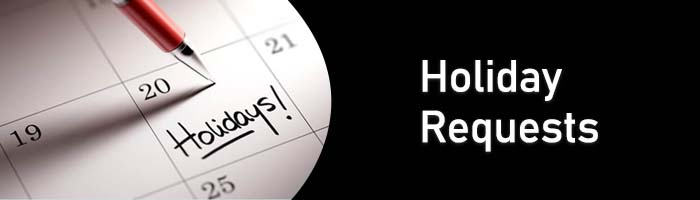
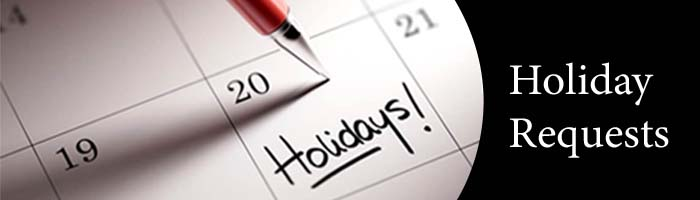
update email and add pictures

diff --git a/clientApp/templates/home.html b/clientApp/templates/home.html
@@ -23,13 +23,13 @@
     <h1>{{user.client}}</h1>
     <hr>
     <br>
-    <h2>Operators</h2>
+    <h2>Yours Operators</h2>
     <img src="{% static 'clientApp/client-operator-banner.jpg' %}" style="width: 100%; height:200px;">
     <div class="row">
         <div class="col">
             <br>
             <a class="btn btn-primary" style="margin-bottom: 10px;"
-                href="{% url 'clientApp:client_operator_list' %}">View Operators</a>
+                href="{% url 'clientApp:client_operator_list' %}">View your operators</a>
         </div>
     </div>
     <hr>
@@ -40,16 +40,15 @@
     <div class="row">
         <div class="col">
             <br>
-            <a class="btn btn-primary" style="margin-bottom: 10px;" href="{% url 'clientApp:client_feedback' %}">Give
-                Feedback</a>
+            <a class="btn btn-primary" style="margin-bottom: 10px;" href="{% url 'clientApp:client_feedback' %}">Giving a feedback</a>
             &nbsp;
             <a class="btn btn-primary" style="margin-bottom: 10px;"
-                href="{% url 'clientApp:client_feedback_list' %}">View Feedbacks</a>
+                href="{% url 'clientApp:client_feedback_list' %}">Viewing a feedback</a>
         </div>
     </div>
     <hr>
 
-    <h2>Holiday Requests</h2>
+    <h2>Holiday requests</h2>
     <img src="{% static 'clientApp/holidays-request.png' %}" style="width: 100%; height:200px;">
     <div class="row">
         <div class="col">
@@ -79,7 +78,6 @@
     </div>
     <hr>
 
-    <h2>Send Message to Urban Communications</h2>
     <div>
         <form method="post">
             {% csrf_token %}
@@ -87,9 +85,11 @@
                 {{clientChatAdmin|crispy}}
             </li>
             <br>
-            <button type="submit" class="btn btn-dark ">
+            <h2>Send a message to Urban Communications &nbsp;
+            <button type="submit" class="btn btn-dark text-center ">
                 Send
             </button>
+        </h2>
         </form>
     </div>
     <hr>
@@ -101,7 +101,7 @@
     </div>
     <hr>
 
-    <h2>Send Message to Operator</h2>
+    <h2>Send message to your operator</h2>
     <div>
         <form method="post">
             {% csrf_token %}
@@ -224,14 +224,14 @@
         <div class="col">
             <br>
             <a class="btn btn-primary" style="margin-bottom: 10px;"
-                href="{% url 'clientApp:admin_feedback_list' %}">Client Feedback<span
+                href="{% url 'clientApp:admin_feedback_list' %}">Client feedback <span
                     class="badge badge-light">{{feedbackCount}}</span></a>
             &nbsp;
             <a class="btn btn-primary" style="margin-bottom: 10px;"
-                href="{% url 'clientApp:admin_employee_feedback' %}">Give Feedback</a>
+                href="{% url 'clientApp:admin_employee_feedback' %}">Giving feedback to your employee</a>
             &nbsp;
             <a class="btn btn-primary" style="margin-bottom: 10px;"
-                href="{% url 'clientApp:admin_employee_feedback_list' %}">Feedback History</a>
+                href="{% url 'clientApp:admin_employee_feedback_list' %}">Viewing the feedback of your employee</a>
 
         </div>
     </div>

diff --git a/secondProject/views.py b/secondProject/views.py
@@ -66,26 +66,30 @@ class ClientRegistration(TemplateView):
                 'email']
             text_content = "Your account has been registered successfully"
             html_content = f"""<div>
-                <em> This is an automated e-mail - please do not reply to this address </em> <br>
-                <h2> PRIVATE & CONFIDENTIAL </h2>
-                <p> Dear {form_client.cleaned_data['client_name']}, <br> 
-                Welcome and congrats on becoming a member of the Urban Communications Family. <br>
-                We are glad to inform you that your account has been registered successfully.  <br> <br>
+                <em>This is an automated e-mail - please do not reply to this address</em><br>
+                <h2>PRIVATE & CONFIDENTIAL</h2>
+                <p>Dear {form_client.cleaned_data['client_name']}, </p>
+                <p>Welcome and congrats on becoming a member of the Urban Communications Family.</p>
+                <p>We are glad to inform you that your account has been registered successfully.</p><br>
 
-                <b> Your account credentials are as follow: </b> <br>
-                
-                <b>Username:</b> {form_user.cleaned_data['username']} <br> 
-                <b>Password:</b> {form_user.cleaned_data['password1']} <br> <br> 
-                You can now login by visiting our website at: <a href="http://www.app.urban-communications.co.uk/">http://www.app.urban-communications.co.uk</a> </p> <br>
-                <b> Things you can do by login: <br>
+                <p><b> Your account credentials are as follow:</b></p>
+                <p><b>Username:</b> {form_user.cleaned_data['username']} <br> 
+                <b>Password:</b> {form_user.cleaned_data['password1']}</p><br>
+
+                <p>You can now login by visiting our website at: <a href="http://www.app.urban-communications.co.uk/">http://www.app.urban-communications.co.uk</a> </p> <br>
+                <b>Things you can do by login:<br>
                 <ul>
                     <li>You can view the list of operators associated with you</li>
-                    <li>You can approce or decline any holiday request from your operator</li>
+                    <li>You can approve or decline any holiday request from your operator</li>
                     <li>You can give feedback to your operator and view it</li>
                     <li>You can send a message to your operator and Urban Communications</li>
                     <li>You can view your invoices from Urban Communications</li>
                     <li>You can also view your profile information</li>
-                </ul>
+                </ul> <br>
+                <p>Kind Regards,</p>
+                <p>Urban Communications</p>
+                <a href="http://www.app.urban-communications.co.uk/">admin@urban-communications.co.uk</a>
+
                 </div>"""
             msg = EmailMultiAlternatives(
                 subject, text_content, from_email, [to])
@@ -145,24 +149,30 @@ class OperatorRegistration(TemplateView):
                     'email']
                 text_content = "Your account has been registered successfully"
                 html_content = f"""<div>
-                <em> This is an automated e-mail - please do not reply to this address </em> <br>
-                <h2> PRIVATE & CONFIDENTIAL </h2>
-                <p> Dear {name}, <br> 
-                Welcome and congrats on becoming a member of the Urban Communications Family. <br>
-                We are glad to inform you that your account has been registered successfully.  <br> <br>
+                <em>This is an automated e-mail - please do not reply to this address</em><br>
+                <h2>PRIVATE & CONFIDENTIAL</h2>
+                <p>Dear {name}, </p>
+                <p>Welcome and congrats on becoming a member of the Urban Communications Family.</p>
+                <p>We are glad to inform you that your account has been registered successfully.</p><br>
 
-                <b> Your account credentials are as follow: </b> <br>
-                
-                <b>Username:</b> {form_user.cleaned_data['username']} <br> 
-                <b>Password:</b> {form_user.cleaned_data['password1']} <br> <br> 
-                You can now login by visiting our website at: <a href="http://www.app.urban-communications.co.uk/">http://www.app.urban-communications.co.uk</a> </p> <br>
-                <b> Things you can do by login: <br>
+
+                <p><b> Your account credentials are as follow:</b></p>
+                <p><b>Username:</b> {form_user.cleaned_data['username']} <br> 
+                <b>Password:</b> {form_user.cleaned_data['password1']}</p><br>
+
+
+                <p>You can now login by visiting our website at: <a href="http://www.app.urban-communications.co.uk/">http://www.app.urban-communications.co.uk</a> </p> <br>
+                <b>Things you can do by login:<br>
                 <ul>
                     <li>You can request your holidays and track its status</li>
                     <li>You can check your feedbacks</li>
                     <li>You can view and upload your documents</li>
                     <li>You can view a message from Urban Communications and you associated client</li>
-                </ul>
+               </ul> <br>
+                <p>Kind Regards,</p>
+                <p>Urban Communications</p>
+                <a href="http://www.app.urban-communications.co.uk/">admin@urban-communications.co.uk</a>
+
                 </div>"""
                 msg = EmailMultiAlternatives(
                     subject, text_content, from_email, [to])
@@ -224,25 +234,30 @@ class EmployeeRegistration(TemplateView):
                     'email']
                 text_content = "Your account has been registered successfully"
                 html_content = f"""<div>
-                <em> This is an automated e-mail - please do not reply to this address </em> <br>
-                <h2> PRIVATE & CONFIDENTIAL </h2>
-                <p> Dear {name}, <br> 
-                Welcome and congrats on becoming a member of the Urban Communications Family. <br>
-                We are glad to inform you that your account has been registered successfully.  <br> <br>
+                <em>This is an automated e-mail - please do not reply to this address</em><br>
+                <h2>PRIVATE & CONFIDENTIAL</h2>
+                <p>Dear {name}, </p>
+                <p>Welcome and congrats on becoming a member of the Urban Communications Family.</p>
+                <p>We are glad to inform you that your account has been registered successfully.</p><br>
 
-                <b> Your account credentials are as follow: </b> <br>
-                
-                <b>Username:</b> {form_user.cleaned_data['username']} <br> 
-                <b>Password:</b> {form_user.cleaned_data['password1']} <br> <br> 
-                You can now login by visiting our website at: <a href="http://www.app.urban-communications.co.uk/">http://www.app.urban-communications.co.uk</a> </p> <br>
-                <b> Things you can do by login: <br>
+
+                <p><b> Your account credentials are as follow:</b></p>
+                <p><b>Username:</b> {form_user.cleaned_data['username']} <br> 
+                <b>Password:</b> {form_user.cleaned_data['password1']}</p><br>
+
+
+                <p>You can now login by visiting our website at: <a href="http://www.app.urban-communications.co.uk/">http://www.app.urban-communications.co.uk</a> </p> <br>
+                <b>Things you can do by login:<br>
                 <ul>
                     <li>You can request your holidays and track its status</li>
                     <li>You can check your feedbacks</li>
                     <li>You can view and upload your documents</li>
                     <li>You can view a message from Urban Communications</li>
-                </ul> <br> <br>
-                <p></p>
+                </ul> <br>
+                <p>Kind Regards,</p>
+                <p>Urban Communications</p>
+                <a href="http://www.app.urban-communications.co.uk/">admin@urban-communications.co.uk</a>
+
                 </div>"""
                 msg = EmailMultiAlternatives(
                     subject, text_content, from_email, [to])
